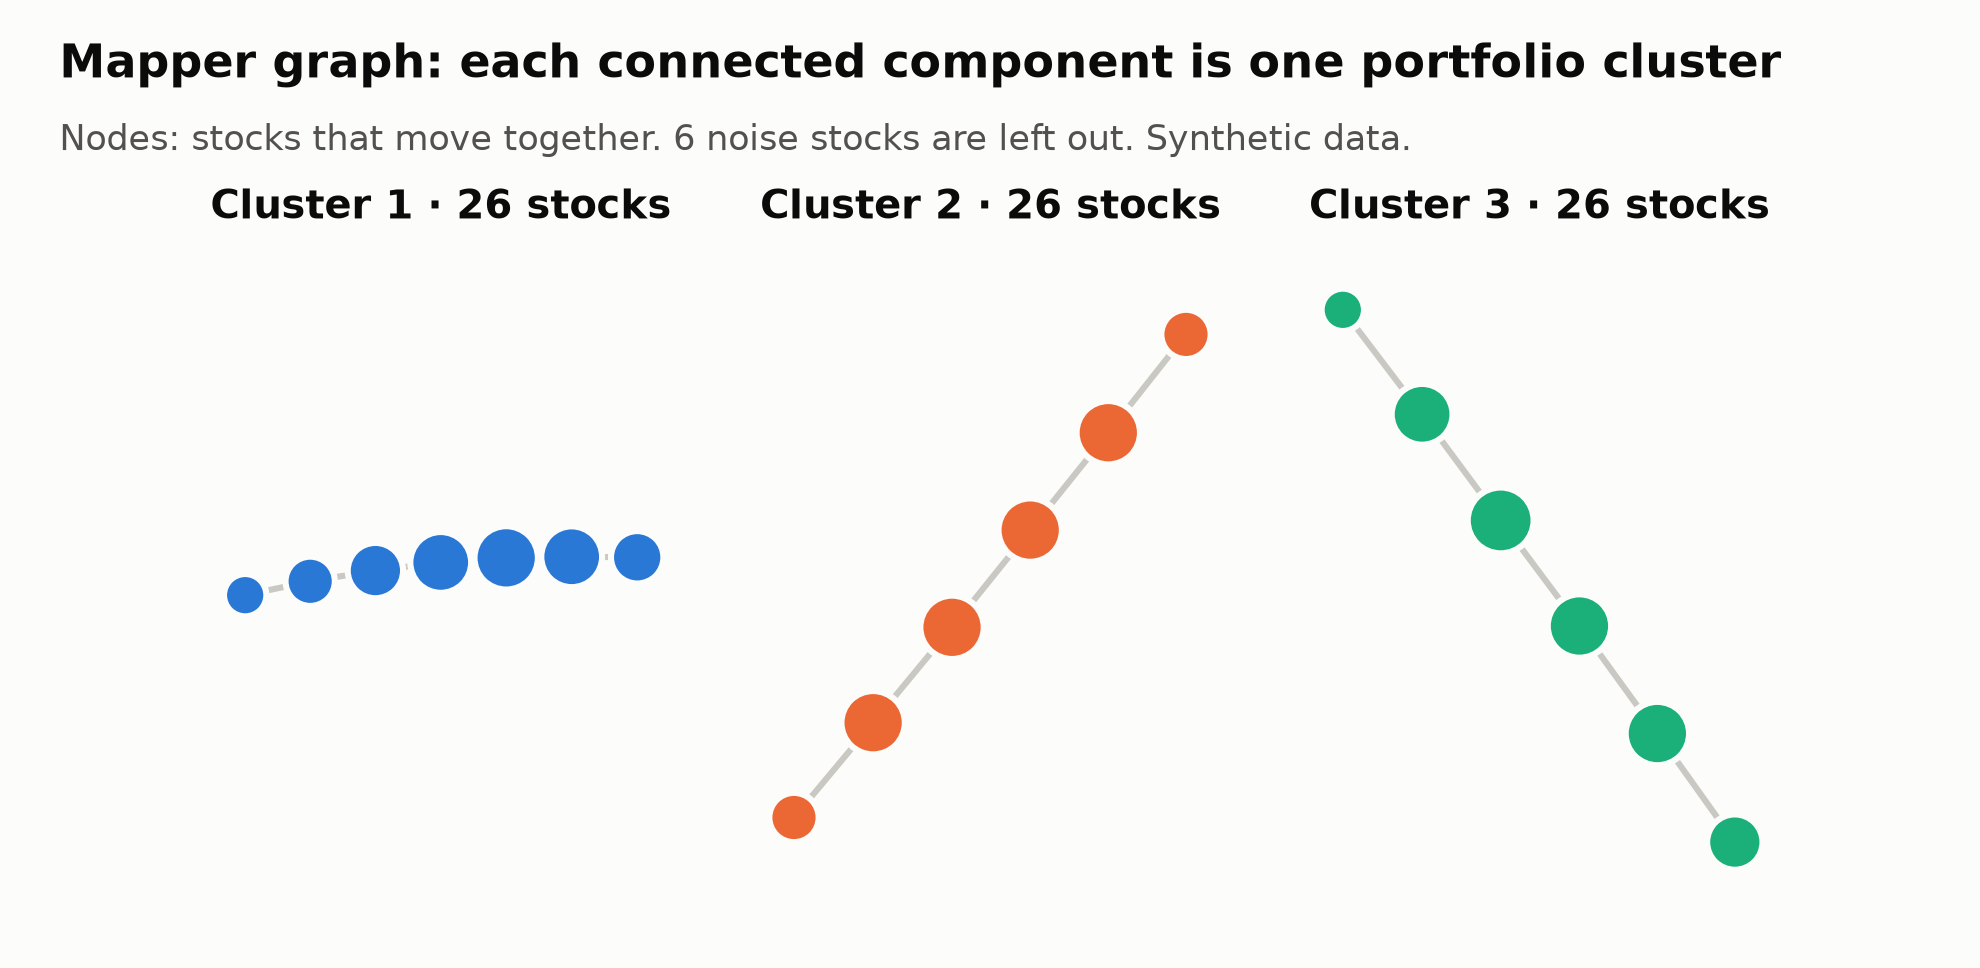
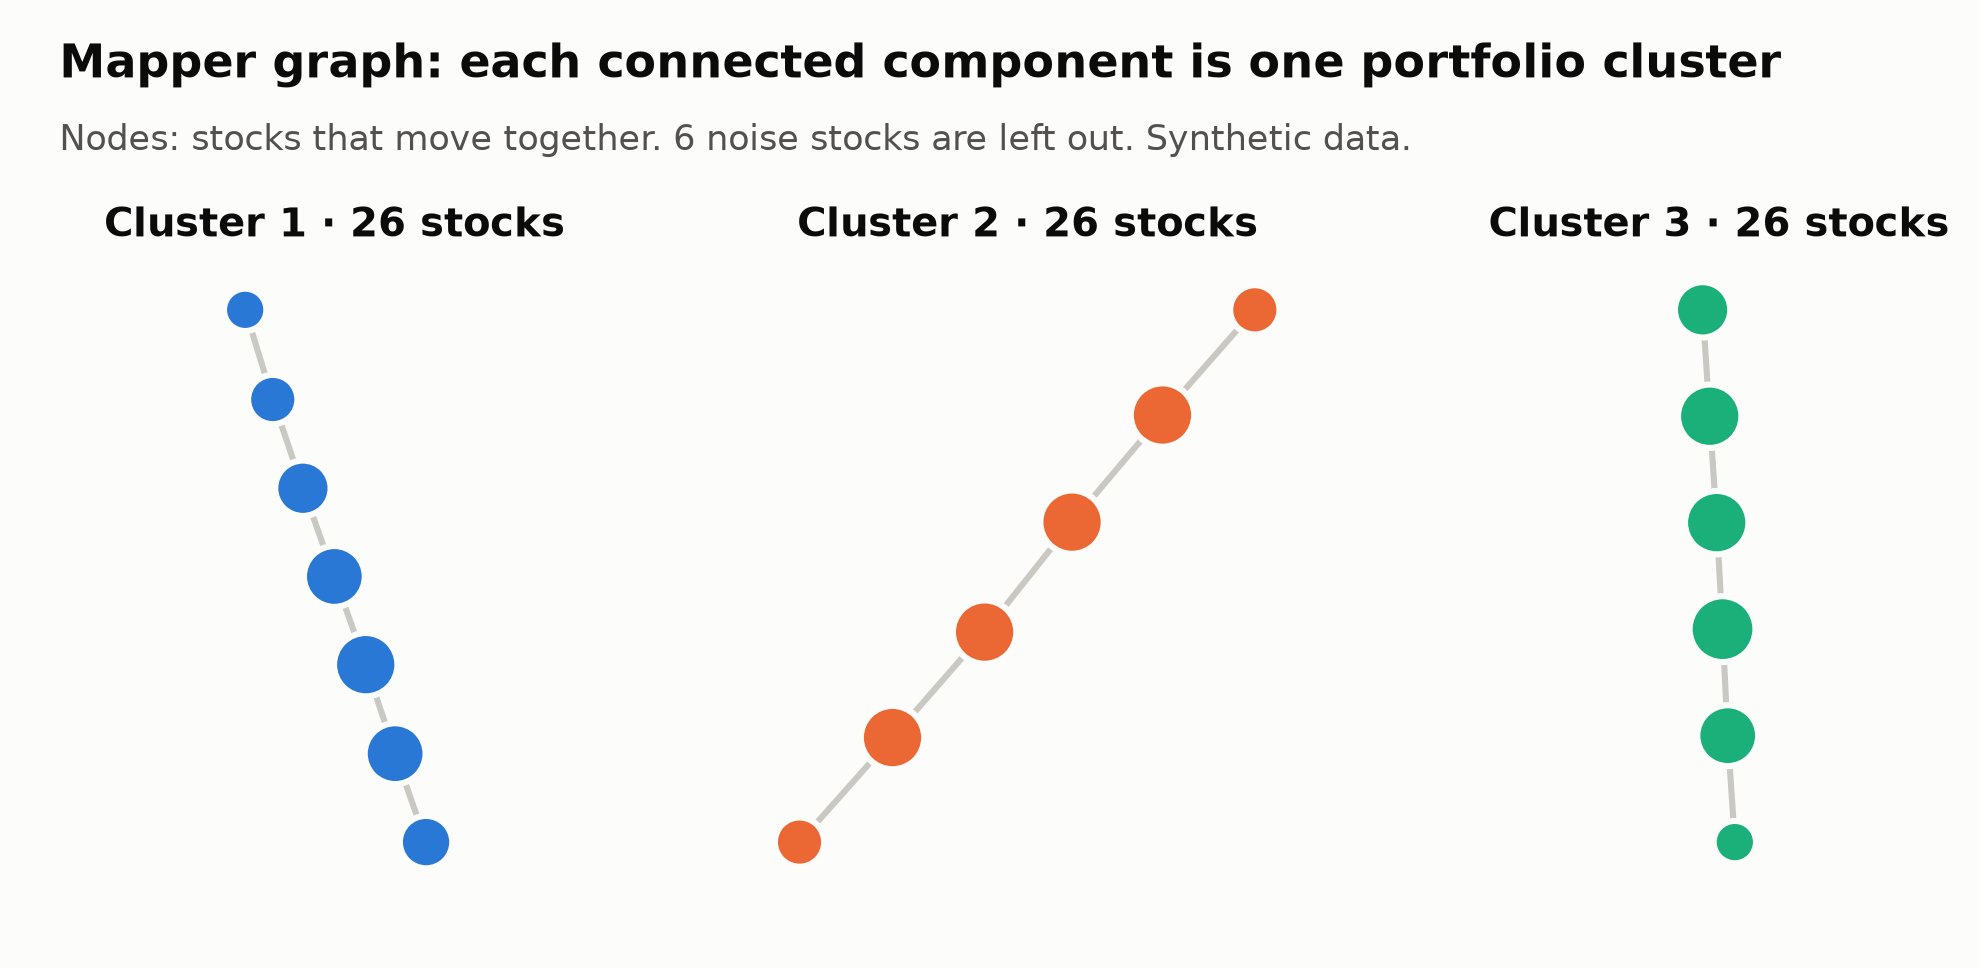
Fix lint in plot_mapper.py, regenerate figures

diff --git a/scripts/plot_mapper.py b/scripts/plot_mapper.py
@@ -96,14 +96,15 @@ def draw(theme: str, returns: pd.DataFrame, out: Path) -> None:
         nx.draw_networkx_nodes(graph, positions, nodelist=list(component), ax=ax, node_color=colour,
                                node_size=sizes, edgecolors=t["surface"], linewidths=2)
         xs = [positions[n][0] for n in component]
-        ys = [positions[n][1] for n in component]
         label = f"Cluster {index + 1} · {len(members)} stocks" if index < 3 else f"{len(members)} stocks"
         ax.text(np.mean(xs), label_y, label, ha="center", va="bottom",
                 color=t["primary"], fontsize=13, fontweight="semibold")
 
     fig.text(0.03, 0.92, "Mapper graph: each connected component is one portfolio cluster",
              color=t["primary"], fontsize=15, fontweight="bold", ha="left")
-    fig.text(0.03, 0.845, f"Nodes: stocks that move together. {len(outliers)} noise stocks are left out. Synthetic data.",
+    fig.text(0.03, 0.845,
+             f"Nodes: stocks that move together. {len(outliers)} noise stocks are left out. "
+             "Synthetic data.",
              color=t["secondary"], fontsize=11.5, ha="left")
     ax.margins(x=0.08, y=0.12)
     fig.subplots_adjust(left=0.02, right=0.98, top=0.78, bottom=0.03)
